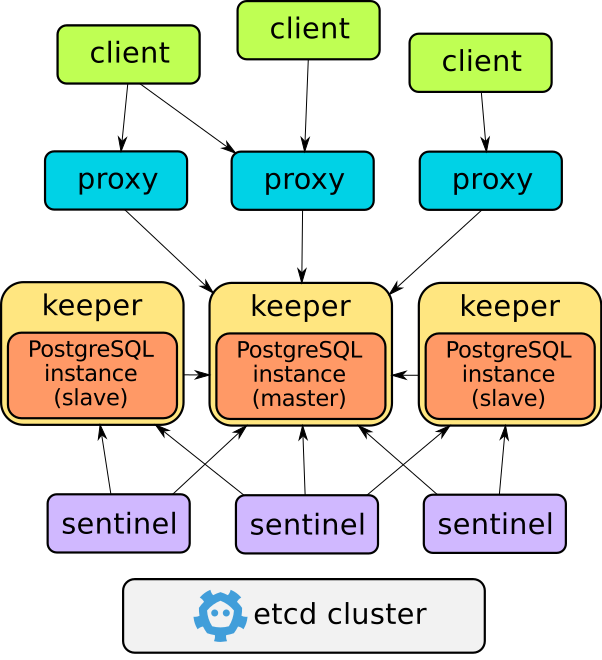
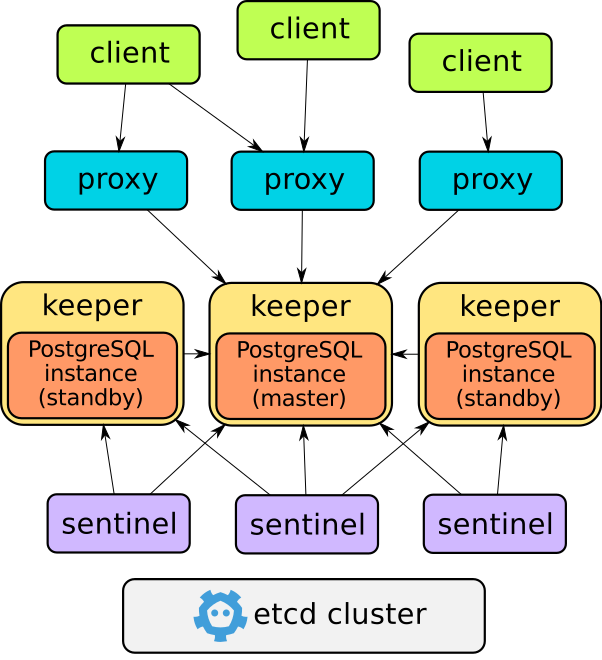
*: Replace slave with standby everywhere.

diff --git a/tests/integration/ha_test.go b/tests/integration/ha_test.go
@@ -61,7 +61,7 @@ func setupServers(t *testing.T, dir string, numKeepers, numSentinels uint8) ([]*
 		t.Fatalf("unexpected err: %v", err)
 	}
 
-	// Start slaves
+	// Start standbys
 	for i := uint8(1); i < numKeepers; i++ {
 		tm, err := NewTestKeeper(dir, cluster)
 		if err != nil {
@@ -73,7 +73,7 @@ func setupServers(t *testing.T, dir string, numKeepers, numSentinels uint8) ([]*
 		if err := tm.WaitDBUp(60 * time.Second); err != nil {
 			t.Fatalf("unexpected err: %v", err)
 		}
-		if err := tm.WaitRole(common.SlaveRole, 30*time.Second); err != nil {
+		if err := tm.WaitRole(common.StandbyRole, 30*time.Second); err != nil {
 			t.Fatalf("unexpected err: %v", err)
 		}
 		tms = append(tms, tm)
@@ -117,7 +117,7 @@ func shutdown(tms []*TestKeeper, tss []*TestSentinel) {
 	}
 }
 
-func getRoles(t *testing.T, tms []*TestKeeper) (master *TestKeeper, slaves []*TestKeeper, err error) {
+func getRoles(t *testing.T, tms []*TestKeeper) (master *TestKeeper, standbys []*TestKeeper, err error) {
 	for _, tm := range tms {
 		ok, err := tm.IsMaster()
 		if err != nil {
@@ -126,13 +126,13 @@ func getRoles(t *testing.T, tms []*TestKeeper) (master *TestKeeper, slaves []*Te
 		if ok {
 			master = tm
 		} else {
-			slaves = append(slaves, tm)
+			standbys = append(standbys, tm)
 		}
 	}
 	return
 }
 
-func TestMasterSlave(t *testing.T) {
+func TestMasterStandby(t *testing.T) {
 	dir, err := ioutil.TempDir("", "stolon")
 	if err != nil {
 		t.Fatalf("unexpected err: %v", err)
@@ -142,7 +142,7 @@ func TestMasterSlave(t *testing.T) {
 	tms, tss := setupServers(t, dir, 2, 1)
 	defer shutdown(tms, tss)
 
-	master, slaves, err := getRoles(t, tms)
+	master, standbys, err := getRoles(t, tms)
 	if err != nil {
 		t.Fatalf("unexpected err: %v", err)
 	}
@@ -161,7 +161,7 @@ func TestMasterSlave(t *testing.T) {
 		t.Fatalf("wrong number of lines, want: %d, got: %d", 1, c)
 	}
 	time.Sleep(1 * time.Second)
-	c, err = getLines(t, slaves[0])
+	c, err = getLines(t, standbys[0])
 	if err != nil {
 		t.Fatalf("unexpected err: %v", err)
 	}
@@ -181,7 +181,7 @@ func TestFailover(t *testing.T) {
 	tms, tss := setupServers(t, dir, 2, 1)
 	defer shutdown(tms, tss)
 
-	master, slaves, err := getRoles(t, tms)
+	master, standbys, err := getRoles(t, tms)
 	if err != nil {
 		t.Fatalf("unexpected err: %v", err)
 	}
@@ -197,11 +197,11 @@ func TestFailover(t *testing.T) {
 	fmt.Printf("Stopping current master keeper: %s\n", master.id)
 	master.Stop()
 
-	if err := slaves[0].WaitRole(common.MasterRole, 30*time.Second); err != nil {
+	if err := standbys[0].WaitRole(common.MasterRole, 30*time.Second); err != nil {
 		t.Fatalf("unexpected err: %v", err)
 	}
 
-	c, err := getLines(t, slaves[0])
+	c, err := getLines(t, standbys[0])
 	if err != nil {
 		t.Fatalf("unexpected err: %v", err)
 	}
@@ -220,7 +220,7 @@ func TestOldMasterRestart(t *testing.T) {
 	tms, tss := setupServers(t, dir, 2, 1)
 	defer shutdown(tms, tss)
 
-	master, slaves, err := getRoles(t, tms)
+	master, standbys, err := getRoles(t, tms)
 	if err != nil {
 		t.Fatalf("unexpected err: %v", err)
 	}
@@ -236,11 +236,11 @@ func TestOldMasterRestart(t *testing.T) {
 	fmt.Printf("Stopping current master keeper: %s\n", master.id)
 	master.Stop()
 
-	if err := slaves[0].WaitRole(common.MasterRole, 30*time.Second); err != nil {
+	if err := standbys[0].WaitRole(common.MasterRole, 30*time.Second); err != nil {
 		t.Fatalf("unexpected err: %v", err)
 	}
 
-	c, err := getLines(t, slaves[0])
+	c, err := getLines(t, standbys[0])
 	if err != nil {
 		t.Fatalf("unexpected err: %v", err)
 	}
@@ -248,7 +248,7 @@ func TestOldMasterRestart(t *testing.T) {
 		t.Fatalf("wrong number of lines, want: %d, got: %d", 1, c)
 	}
 
-	if err := write(t, slaves[0], 2, 2); err != nil {
+	if err := write(t, standbys[0], 2, 2); err != nil {
 		t.Fatalf("unexpected err: %v", err)
 	}
 
@@ -257,7 +257,7 @@ func TestOldMasterRestart(t *testing.T) {
 	if err := master.Start(); err != nil {
 		t.Fatalf("unexpected err: %v", err)
 	}
-	if err := master.WaitRole(common.SlaveRole, 30*time.Second); err != nil {
+	if err := master.WaitRole(common.StandbyRole, 30*time.Second); err != nil {
 		t.Fatalf("unexpected err: %v", err)
 	}
 	c, err = getLines(t, master)
@@ -279,7 +279,7 @@ func TestPartition1(t *testing.T) {
 	tms, tss := setupServers(t, dir, 2, 1)
 	defer shutdown(tms, tss)
 
-	master, slaves, err := getRoles(t, tms)
+	master, standbys, err := getRoles(t, tms)
 	if err != nil {
 		t.Fatalf("unexpected err: %v", err)
 	}
@@ -300,11 +300,11 @@ func TestPartition1(t *testing.T) {
 	if err := master.SignalPG(syscall.SIGSTOP); err != nil {
 		t.Fatalf("unexpected err: %v", err)
 	}
-	if err := slaves[0].WaitRole(common.MasterRole, 60*time.Second); err != nil {
+	if err := standbys[0].WaitRole(common.MasterRole, 60*time.Second); err != nil {
 		t.Fatalf("unexpected err: %v", err)
 	}
 
-	c, err := getLines(t, slaves[0])
+	c, err := getLines(t, standbys[0])
 	if err != nil {
 		t.Fatalf("unexpected err: %v", err)
 	}
@@ -312,7 +312,7 @@ func TestPartition1(t *testing.T) {
 		t.Fatalf("wrong number of lines, want: %d, got: %d", 1, c)
 	}
 
-	if err := write(t, slaves[0], 2, 2); err != nil {
+	if err := write(t, standbys[0], 2, 2); err != nil {
 		t.Fatalf("unexpected err: %v", err)
 	}
 
@@ -325,7 +325,7 @@ func TestPartition1(t *testing.T) {
 	if err := master.SignalPG(syscall.SIGCONT); err != nil {
 		t.Fatalf("unexpected err: %v", err)
 	}
-	if err := master.WaitRole(common.SlaveRole, 60*time.Second); err != nil {
+	if err := master.WaitRole(common.StandbyRole, 60*time.Second); err != nil {
 		t.Fatalf("unexpected err: %v", err)
 	}
 	c, err = getLines(t, master)

diff --git a/cmd/sentinel/sentinel.go b/cmd/sentinel/sentinel.go
@@ -207,7 +207,7 @@ func httpDo(ctx context.Context, req *http.Request, tlsConfig *tls.Config, f fun
 	}
 }
 
-func (s *Sentinel) GetBestSlave(cv *cluster.ClusterView, membersState cluster.MembersState, master string) (string, error) {
+func (s *Sentinel) GetBestStandby(cv *cluster.ClusterView, membersState cluster.MembersState, master string) (string, error) {
 	var bestID string
 	masterState := membersState[master]
 	for id, m := range membersState {
@@ -237,7 +237,7 @@ func (s *Sentinel) GetBestSlave(cv *cluster.ClusterView, membersState cluster.Me
 		}
 	}
 	if bestID == "" {
-		return "", fmt.Errorf("no slaves available")
+		return "", fmt.Errorf("no standbys available")
 	}
 	return bestID, nil
 }
@@ -502,7 +502,7 @@ func (s *Sentinel) updateClusterView(cv *cluster.ClusterView, membersState clust
 			masterOK = false
 		}
 
-		// Check that the wanted master is in master state (i.e. check that promotion from slave to master happened)
+		// Check that the wanted master is in master state (i.e. check that promotion from standby to master happened)
 		if !s.isMemberConverged(master, cv) {
 			log.Infof("member %s not yet master", masterID)
 			masterOK = false
@@ -510,16 +510,16 @@ func (s *Sentinel) updateClusterView(cv *cluster.ClusterView, membersState clust
 
 		wantedMasterID = masterID
 		if !masterOK {
-			log.Infof("trying to find a slave to replace failed master")
-			bestSlave, err := s.GetBestSlave(cv, membersState, masterID)
+			log.Infof("trying to find a standby to replace failed master")
+			bestStandby, err := s.GetBestStandby(cv, membersState, masterID)
 			if err != nil {
-				log.Errorf("error trying to find the best slave: %v", err)
+				log.Errorf("error trying to find the best standby: %v", err)
 			} else {
-				if bestSlave != masterID {
-					log.Debugf("electing new master: %s", bestSlave)
-					wantedMasterID = bestSlave
+				if bestStandby != masterID {
+					log.Debugf("electing new master: %s", bestStandby)
+					wantedMasterID = bestStandby
 				} else {
-					log.Infof("cannot find a good slave to replace failed master")
+					log.Infof("cannot find a good standby to replace failed master")
 				}
 			}
 		}
@@ -542,7 +542,7 @@ func (s *Sentinel) updateClusterView(cv *cluster.ClusterView, membersState clust
 		newMembersRole[wantedMasterID] = &cluster.MemberRole{Follow: ""}
 	}
 
-	// Setup slaves
+	// Setup standbys
 	if cv.Master == wantedMasterID {
 		// wanted master is the previous one
 		masterState := membersState[wantedMasterID]

diff --git a/cmd/keeper/keeper.go b/cmd/keeper/keeper.go
@@ -328,7 +328,7 @@ func (p *PostgresKeeper) postgresKeeperSM(pctx context.Context) {
 	if cv != nil {
 		if !started && p.id == cv.Master {
 			// If the clusterView says we are master but we cannot get
-			// instance status or start then stop here, if we are slave then we can
+			// instance status or start then stop here, if we are standby then we can
 			// recover
 			return
 		}
@@ -344,7 +344,7 @@ func (p *PostgresKeeper) postgresKeeperSM(pctx context.Context) {
 		log.Infof("current pg state: master")
 		isMaster = true
 	} else {
-		log.Infof("current pg state: slave")
+		log.Infof("current pg state: standby")
 	}
 
 	// publish ourself for discovery
@@ -414,7 +414,7 @@ func (p *PostgresKeeper) postgresKeeperSM(pctx context.Context) {
 			}
 		}
 	} else {
-		log.Infof("our cluster requested state is slave of %q", memberRole.Follow)
+		log.Infof("our cluster requested state is standby following %q", memberRole.Follow)
 		if isMaster {
 			if initialized && started {
 				err := pgm.Stop(true)
@@ -437,7 +437,7 @@ func (p *PostgresKeeper) postgresKeeperSM(pctx context.Context) {
 			}
 			log.Infof("sync from master %q successfully finished", masterID)
 
-			err = pgm.BecomeSlave(replConnString)
+			err = pgm.BecomeStandby(replConnString)
 			if err != nil {
 				log.Errorf("err: %v", err)
 				return
@@ -450,7 +450,7 @@ func (p *PostgresKeeper) postgresKeeperSM(pctx context.Context) {
 			}
 
 		} else {
-			log.Infof("already slave")
+			log.Infof("already standby")
 			curConnParams, err := pgm.GetPrimaryConninfo()
 			if err != nil {
 				log.Errorf("err: %v", err)
@@ -467,13 +467,13 @@ func (p *PostgresKeeper) postgresKeeperSM(pctx context.Context) {
 			}
 
 			// TODO(sgotti) if the master changed, check that we are not ahead of the current master or force a full resync
-			// This can happen with async replication if the slave elected as new master is behind us.
+			// This can happen with async replication if the standby elected as new master is behind us.
 
 			// Update our primary_conninfo if replConnString changed
 			if !curConnParams.Equals(newConnParams) {
 				log.Infof("master connection parameters changed. Reconfiguring...")
 				log.Infof("following %s with connection url %s", memberRole.Follow, replConnString)
-				err = pgm.BecomeSlave(replConnString)
+				err = pgm.BecomeStandby(replConnString)
 				if err != nil {
 					log.Errorf("err: %v", err)
 					return

diff --git a/cmd/sentinel/sentinel_test.go b/cmd/sentinel/sentinel_test.go
@@ -60,7 +60,7 @@ func TestUpdateClusterView(t *testing.T) {
 			outCV: cluster.NewClusterView(),
 			err:   fmt.Errorf("cannot init cluster, more than 1 member registered"),
 		},
-		// One master and one slave, both healthy: no change from previous cv
+		// One master and one standby, both healthy: no change from previous cv
 		{
 			cv: &cluster.ClusterView{
 				Version: 1,
@@ -95,7 +95,7 @@ func TestUpdateClusterView(t *testing.T) {
 				},
 			},
 		},
-		// One master and one slave, master not healthy: slave elected as new master
+		// One master and one standby, master not healthy: standby elected as new master
 		{
 			cv: &cluster.ClusterView{
 				Version: 1,
@@ -166,8 +166,8 @@ func TestUpdateClusterView(t *testing.T) {
 			},
 		},
 
-		// One master and one slave, master not healthy, slave with old
-		// clusterview: no slave elected as new master.
+		// One master and one standby, master not healthy, standby with old
+		// clusterview: no standby elected as new master.
 		{
 			cv: &cluster.ClusterView{
 				Version: 2,
@@ -202,8 +202,8 @@ func TestUpdateClusterView(t *testing.T) {
 				},
 			},
 		},
-		// One master and one slave, master not converged to current
-		// cv: slave elected as new master.
+		// One master and one standby, master not converged to current
+		// cv: standby elected as new master.
 		{
 			cv: &cluster.ClusterView{
 				Version: 2,

diff --git a/pkg/postgresql/postgresql.go b/pkg/postgresql/postgresql.go
@@ -192,7 +192,7 @@ func (p *Manager) Promote() error {
 	return nil
 }
 
-func (p *Manager) BecomeSlave(masterconnString string) error {
+func (p *Manager) BecomeStandby(masterconnString string) error {
 	err := p.WriteRecoveryConf(masterconnString)
 	if err != nil {
 		return err
@@ -315,7 +315,7 @@ func (p *Manager) GetRoleFromDB() (common.Role, error) {
 			return 0, err
 		}
 		if isInRecovery {
-			return common.SlaveRole, nil
+			return common.StandbyRole, nil
 		}
 		return common.MasterRole, nil
 	}
@@ -330,7 +330,7 @@ func (p *Manager) GetRole() (common.Role, error) {
 	if curConnParams == nil {
 		return common.MasterRole, nil
 	}
-	return common.SlaveRole, nil
+	return common.StandbyRole, nil
 }
 
 func (p *Manager) GetPrimaryConninfo() (connParams, error) {

diff --git a/tests/integration/utils.go b/tests/integration/utils.go
@@ -261,7 +261,7 @@ func (tm *TestKeeper) WaitRole(r common.Role, timeout time.Duration) error {
 		if ok && r == common.MasterRole {
 			return nil
 		}
-		if !ok && r == common.SlaveRole {
+		if !ok && r == common.StandbyRole {
 			return nil
 		}
 	}

diff --git a/pkg/postgresql/utils.go b/pkg/postgresql/utils.go
@@ -102,7 +102,7 @@ func GetRole(ctx context.Context, connString string) (common.Role, error) {
 			return 0, err
 		}
 		if isInRecovery {
-			return common.SlaveRole, nil
+			return common.StandbyRole, nil
 		}
 		return common.MasterRole, nil
 	}

diff --git a/common/common.go b/common/common.go
@@ -25,12 +25,12 @@ type Role uint8
 
 const (
 	MasterRole Role = iota
-	SlaveRole
+	StandbyRole
 )
 
 func (r Role) String() string {
 	if r == MasterRole {
 		return "master"
 	}
-	return "slave"
+	return "standby"
 }
